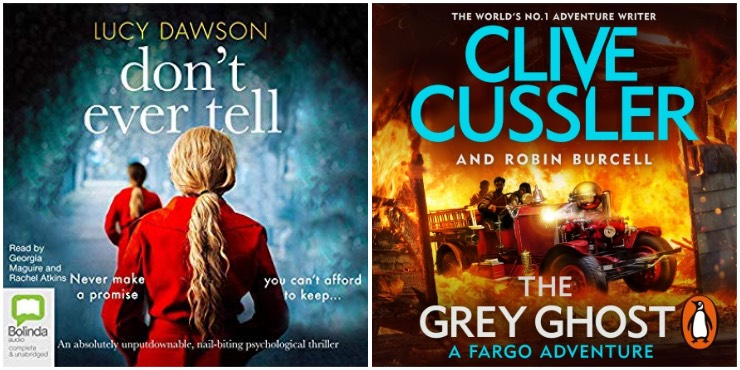
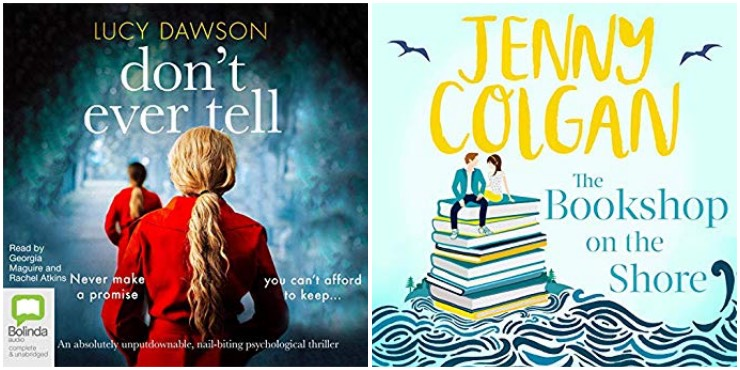
assorted bits

diff --git a/new-suggestions/audiobooks/_posts/2019-08-27-new-audiobooks-24.md b/new-suggestions/audiobooks/_posts/2019-08-27-new-audiobooks-24.md
@@ -6,11 +6,11 @@ author: sophie-green
 category: audiobooks
 excerpt: "Listen to top titles from Lucy Dawson, Clive Cussler & Harlan Coben."
 featured-image: /images/featured/featured-audiobooks-24.jpg
-featured-alt: "Don't Ever Tell, The Grey Ghost"
+featured-alt: "Don't Ever Tell, The Bookshop on the Shore"
 breadcrumb: audiobooks
 ---
 
-![Don't Ever Tell, The Grey Ghost](/images/featured/featured-audiobooks-24.jpg)
+![Don't Ever Tell, The Bookshop on the Shore](/images/featured/featured-audiobooks-24.jpg)
 
 [Check out our latest eAudiobooks &rarr;](/new-suggestions/elibrary-picks/new-eaudiobooks-9/)
 
@@ -29,6 +29,18 @@ breadcrumb: audiobooks
 ## [<cite>The Peppermint Tea Chronicles</cite>, by Alexander McCall Smith, read by David Rintoul](https://suffolk.spydus.co.uk/cgi-bin/spydus.exe/ENQ/OPAC/BIBENQ?BRN=2630640)
 
 > "Changes are coming to 44 Scotland Street, what with Bertie and his friends getting older, and the neighbours gossiping about Irene's latest drama. Still, at the end of the day, the community of Edinburgh's New Town will find itself drawn together in surprising ways in this latest instalment of Alexander McCall Smith's witty, humorous, and engaging series."
+
+## [<cite>The Bookshop on the Shore</cite>, by Jenny Colgan, read by Eilidh Beaton](https://suffolk.spydus.co.uk/cgi-bin/spydus.exe/ENQ/OPAC/BIBENQ?BRN=2600224)
+
+> "Escape to the Scottish Highlands, where a tiny bookshop perches on the edge of a loch.
+
+> "Zoe is a single mother, sinking beneath the waves trying to cope by herself in London. Hari, her gorgeous little boy, is perfect in every way - except for the fact that he just doesn't speak at all.
+
+> "When her landlord raises the rent on her flat, Zoe doesn't know where to turn. Then Hari's aunt suggests Zoe could move to Scotland to help run a bookshop. Going from the lonely city to a small village in the Highlands could be the change Zoe and Hari desperately need.   
+
+> "Faced with an unwelcoming boss, a moody, distant bookseller named Ramsay Urquart, and a band of unruly children, Zoe wonders if she's made the right decision. But Hari has found his very first real friend, and no one could resist the beauty of the loch glinting in the summer sun. If only Ramsay would just be a little more approachable....  
+
+> "Dreams start here..."
 
 ## [<cite>The Grey Ghost</cite>, by Clive Cussler & Robin Burcell, read by Jeff Harding](https://suffolk.spydus.co.uk/cgi-bin/spydus.exe/ENQ/OPAC/BIBENQ?BRN=2615338)
 

diff --git a/_events/lowestoft-2019-08-24-mermaid-visit.md b/_events/lowestoft-2019-08-24-mermaid-visit.md
@@ -1,5 +1,5 @@
 ---
-name: "Saturday Fun: Storytime with mermaid Briney Zingala"
+name: "Saturday Fun: Storytime with mermaid Briney Zingala - FULLY BOOKED"
 location: lowestoft-library
 location-text: Lowestoft Library
 event-start-date: 2019-08-24
@@ -9,6 +9,8 @@ event-ticket-price: free but donations appreciated
 event-category: summer-holidays
 breadcrumb: y
 ---
+
+**This event is fully booked**
 
 Join us in our regular Saturday fun slot for a super special storytelling session with mermaid Briney Zingala!
 

diff --git a/_libraries/rosehill-library.md b/_libraries/rosehill-library.md
@@ -30,5 +30,4 @@ breadcrumb: y
 branch-payments: cash, cheques and cards accepted
 branch-pride-and-periods: y
 meta-description: "Books, CDs, DVDs, free computer access, wifi, printing, scanning, room hire, children's activities, older people's activities, free sanitary products."
-branch-news: "The library will be closed from 1-2pm today (Tuesday 13 August) due to staff sickness."
 ---

diff --git a/_events/newmarket-2019-09-12-marion-leeper.md b/_events/newmarket-2019-09-12-marion-leeper.md
@@ -1,0 +1,13 @@
+---
+name: "Top Time: Second World War stories with Marion Leeper"
+location: newmarket-library
+location-text: Newmarket Library
+event-start-date: 2019-09-12
+event-start-time: 1430
+event-end-time: 1530
+event-ticket-price: 1
+event-category: older
+breadcrumb: y
+---
+
+Join us for a selection of World War II stories from professinal storyteller Marion Leeper.

diff --git a/_events/newmarket-2019-09-05-grand-organisers-pm.md b/_events/newmarket-2019-09-05-grand-organisers-pm.md
@@ -1,11 +1,12 @@
 ---
-name: "Talk from Nina Grand of Grand Organisers: afternoon session"
+name: "Top Time: Talk from Nina Grand of Grand Organisers: afternoon session"
 location: newmarket-library
 location-text: Newmarket Library
 event-start-date: 2019-09-05
 event-start-time: 1430
 event-end-time: 1530
 event-ticket-price: 1
+event-category: older
 breadcrumb: y
 ---
 

diff --git a/_recurrents/halesworth-absolute-beginners.md b/_recurrents/halesworth-absolute-beginners.md
@@ -1,7 +1,7 @@
 ---
 recurrent-title: "One to one sessions for absolute beginners (£15 per hour)"
 recurrent-day: Sessions arranged on a mutually convenient basis
-recurrent-times: N/a
+recurrent-times: by appointment
 recurrent-location: halesworth-library
 recurrent-location-display-name: Halesworth Library
 recurrent-location-display-url: /branches/halesworth-library/

diff --git a/_events/newmarket-2019-09-05-grand-organisers-am.md b/_events/newmarket-2019-09-05-grand-organisers-am.md
@@ -1,11 +1,12 @@
 ---
-name: "Talk from Nina Grand of Grand Organisers: morning session"
+name: "Top Time: Talk from Nina Grand of Grand Organisers: morning session"
 location: newmarket-library
 location-text: Newmarket Library
 event-start-date: 2019-09-05
 event-start-time: 1030
 event-end-time: 1130
 event-ticket-price: 1
+event-category: older
 breadcrumb: y
 ---
 

diff --git a/_events/kesgrave-2019-08-17-sticker-swap.md b/_events/kesgrave-2019-08-17-sticker-swap.md
@@ -1,0 +1,12 @@
+---
+name: "Elmer sticker swap"
+location: kesgrave-library
+location-text: Kesgrave Library
+event-start-date: 2019-08-17
+event-start-time: 1030
+event-end-time: 1200
+event-category: summer-holidays
+breadcrumb: y
+---
+
+Are you collecting Elmer stickers? Drop in and swap your 'gots' for 'wants' with other collectors!
